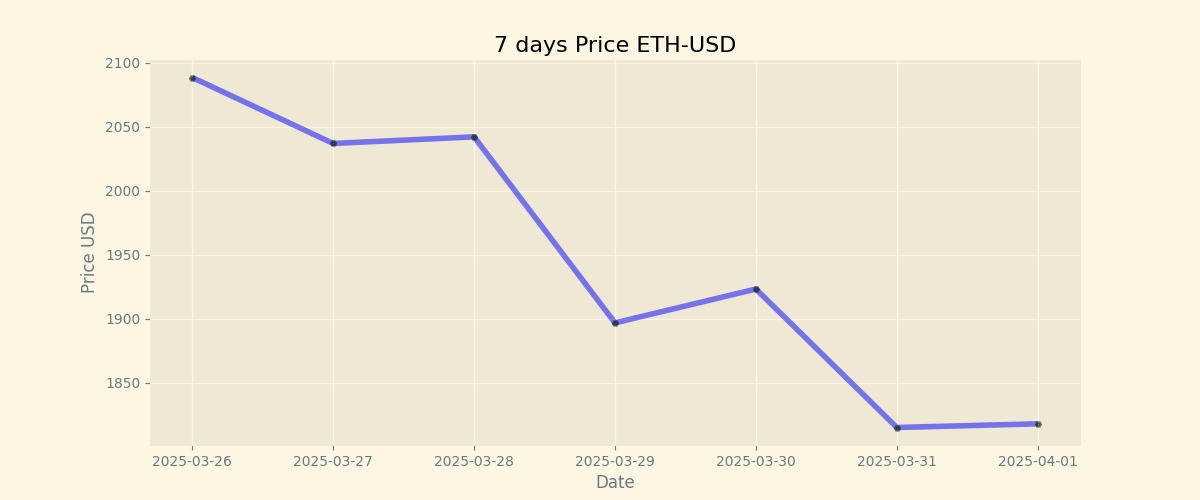
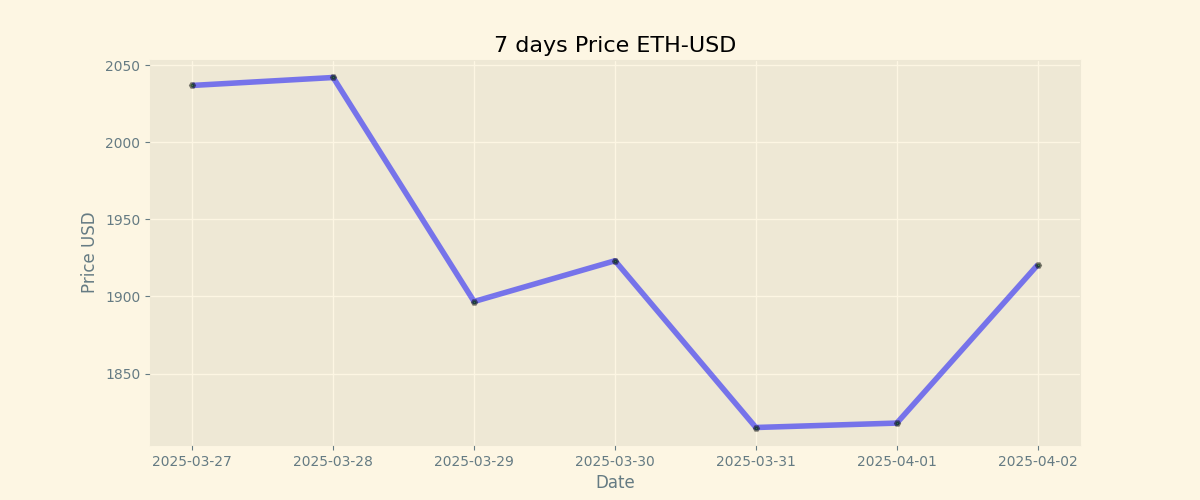
Duty Updates 2025-04-02

diff --git a/README.md b/README.md
@@ -9,8 +9,8 @@
 
 | Currency | Price           |
 | -------- | --------------- |
-| **BTC**  | **$ 82001.0** |
-| **ETH**  | **$ 1817.87** |
+| **BTC**  | **$ 84501.0** |
+| **ETH**  | **$ 1920.5** |
 
 ## BTC chart
 
